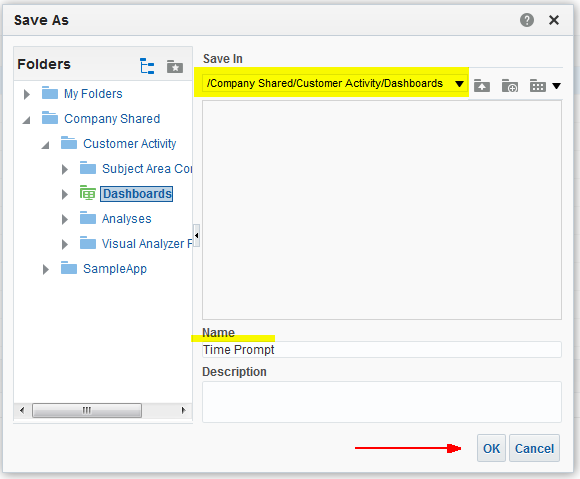
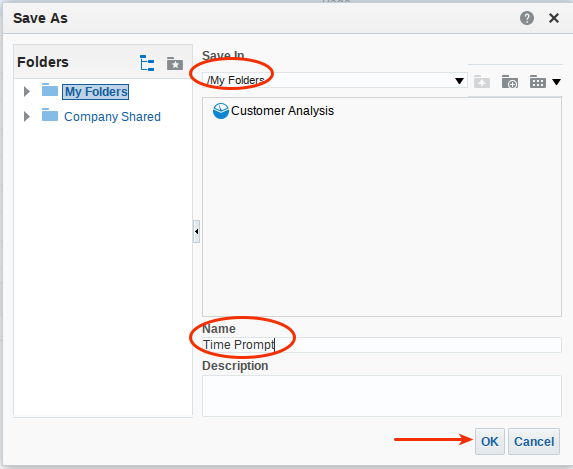
Various Upates

Changed region(s): [[0.0, 0.0, 1.0, 1.0], [0.0297, 0.1194, 0.1187, 0.1493]]

diff --git a/BDPCS-BICS/BDPCS_L100.md b/BDPCS-BICS/BDPCS_L100.md
@@ -79,8 +79,8 @@ Your workshop leader will provide the specific cloud service URL as well as the 
 
 ## Source Connection Setup
 The two BDPCS Source Connections utilized in this workshop will be used:
-- Default_Oracle_Cloud_Storage
-- Oracle_BICS
+- Default\_Oracle_Cloud_Storage
+- Oracle\_BICS
 
 The sections below provide examples of the configuration information that is required for the two sources:
 - An Oracle Cloud Storage Service instance where our input files to be Transformed will reside.
@@ -116,13 +116,13 @@ The sections below provide examples of the configuration information that is req
 
     ![](images/L100/p19.png)
 
-- Specify Name and Source.  Name the Transform CustomerActivity_U[User:1..20]-MMMDD.  Example: CustomerActivity_U1-Jan24.  ** Note that transform names should be unique.  That is, if you create a transform and then delete it, new transform names should not be the same name as current AND deleted transforms.**
+- Specify Name and Source.  Name the Transform CustomerActivity\_U[User:1..20]-MMMDD.  Example: CustomerActivity\_U1-Jan24.  ** Note that transform names should be unique.  That is, if you create a transform and then delete it, new transform names should not be the same name as current AND deleted transforms.**
 - Uncheck the Contains Header checkbox
 - Press the Select button to select a Source and File
 
     ![](images/L100/p20.png)
 
-- Select the Default_Oracle_Cloud_Storage source.
+- Select the Default\_Oracle\_Cloud\_Storage source.
 - Select Workshop-Customer folder.
 - Press OK.
 
@@ -132,7 +132,7 @@ The sections below provide examples of the configuration information that is req
 
     ![](images/L100/p22.png)
 
-- This will return you to the Catalog page where you will see the CustomerActivity_U01_Jan24 Transform.  Its Status should be In Progress as shown below.
+- This will return you to the Catalog page where you will see the CustomerActivity\_U01\_Jan24 Transform.  Its Status should be In Progress as shown below.
 
     ![](images/L100/p23.png)
 
@@ -140,7 +140,7 @@ The sections below provide examples of the configuration information that is req
 
 ## Edit and Configure the Transform
 ### **STEP 1:** Edit the Transform
-- After the Transform processing has completed and the Status is ***Ready***, Click the catalog menu and select Edit to edit the transform.
+- After the Transform processing has completed and the Status is **Ready**, Click the catalog menu and select Edit to edit the transform.
 
     ![](images/L100/p24.png)
 

diff --git a/BDPCS-BICS/BICS_L400.md b/BDPCS-BICS/BICS_L400.md
@@ -33,7 +33,7 @@ Note:  There are several views that are part of this workbook – save frequentl
 
     ![](images/L400/p4.png)
 
-### **Step 2:** Expand and drag the following items to the ‘Selected Columns’ area.  Use the <CTRL> key to multi-select items, folder by folder.
+### **Step 2:** Expand and drag the following items to the ‘Selected Columns’ area.  Use the <CTRL\> key to multi-select items, folder by folder.
 - Select and drag and drop items to selected columns region from left to right.
 
     ![](images/L400/p5.png)
@@ -134,13 +134,15 @@ Note:  There are several views that are part of this workbook – save frequentl
 
     ![](images/L400/p35.png)
 
-- Select the ‘Save Analysis’ icon upper left.  Enter ‘Lab <your workstation>-Lab
+- Select the `Save Analysis` icon upper left.  Enter `Customer Analysis`
 
     ![](images/L400/p36.png)
+    
+    ![](images/L400/p36.1.png)
 
 # Dashboards
 ### **Step 1:**  Create Dashboard prompts
-- Return to the main Cloud Service tab and select ‘Catalog’.
+- Return to the main Cloud Service tab and select `Catalog`.
 
     ![](images/L400/p37.png)
 
@@ -178,7 +180,7 @@ Note:  There are several views that are part of this workbook – save frequentl
 
     ![](images/L400/p47.png)
 
-- Call it ‘Time Prompt’.
+- Call it `Time Prompt`.
 
     ![](images/L400/p48.png)
 
@@ -189,11 +191,13 @@ Note:  There are several views that are part of this workbook – save frequentl
 
     ![](images/L400/p50.png)
 
-- Refresh the folders and select Dashboards – Customer Activity Dashboard – edit it.  This will open a new tab to edit.
+    ![](images/L400/p50.1.png)
 
-    ![](images/L400/p51.png)
+- Ignore this error.
 
-- Expand the catalog (lower left) and drag the Time Prompt and the Customer Activity Dashboard on to the Dashboard Page at the top.  Then drag your saved analysis workbook on to the dashboard just below the dashboard prompt.
+    ![](images/L400/p50.2.png)
+
+- Expand the catalog and drag the Time Prompt and the Customer Activity Dashboard on to the Dashboard Page at the top.  Then drag your saved analysis workbook on to the dashboard just below the dashboard prompt.
 
     ![](images/L400/p52.png)
 

diff --git a/BDPCS-BICS/BICS_L300.md b/BDPCS-BICS/BICS_L300.md
@@ -37,7 +37,7 @@ The following shows the self service flow of information, as business users take
 
 ![](images/L300/p5.png)
 
-- Hover over elements to get familiar with controls.  Note in particular the ‘Undo Last Edit’ icon for when you make a mistake and want to back up.
+- Hover over elements to get familiar with controls.  Note in particular the `Undo Last Edit` icon for when you make a mistake and want to back up.
 
     ![](images/L300/p6.png)
 
@@ -118,7 +118,7 @@ This visual tells us that electronics is our largest selling (revenue) item over
 
     ![](images/L300/p25.png)
 
-- Save project – call it VA-XX Project where ‘XX’ is your assigned participant number.  Click on the folders to save in the appropriate directory (Company Shared…).
+- Save project – call it VA-XX Project where `XX` is your assigned participant number.  Click on the folders to save in My Folder.
 
     ![](images/L300/p26.png)
 
